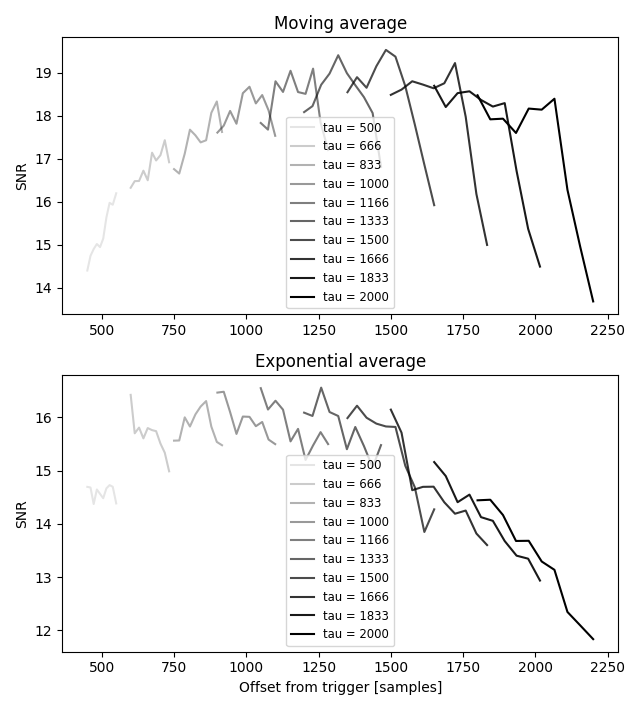
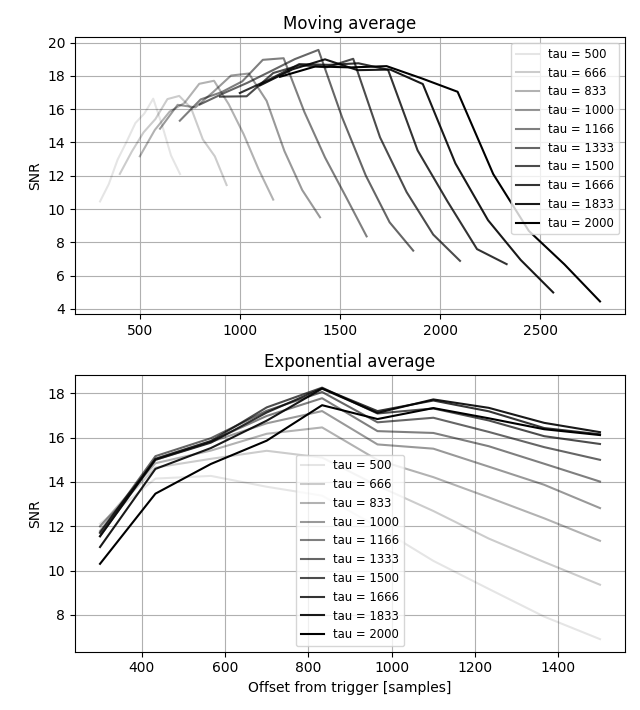
wider delta interval

diff --git a/fingersnr.py b/fingersnr.py
@@ -10,7 +10,7 @@ import integrate
 filename = 'nuvhd_lf_3x_tile57_77K_64V_6VoV_1.wav'
 data = readwav.readwav(filename, mmap=False)
 
-delta_rel = np.linspace(0.9, 1.1, 10)
+delta_rel = np.linspace(0.6, 1.4, 10)
 tau = np.linspace(500, 2000, 10)
 
 delta = (tau.reshape(-1, 1) * delta_rel).reshape(-1)
@@ -18,9 +18,11 @@ tau = np.broadcast_to(tau.reshape(-1, 1), tau.shape + delta_rel.shape).reshape(-
 
 delta = np.array(delta, int)
 tau = np.array(tau, int)
+delta_exp = np.array(np.linspace(300, 1500, 10), int)
+delta_exp = np.broadcast_to(delta_exp.reshape(1, -1), (10, 10)).reshape(-1)
 
 print('computing...')
-start, baseline, vma, vexp = integrate.filter(data, delta, tau, delta, tau)
+start, baseline, vma, vexp = integrate.filter(data, delta, tau, delta_exp, tau)
 
 # Identify events with out-of-trigger signals.
 baseline_zone = data[:, 0, :8900]
@@ -34,6 +36,8 @@ def single_filter_analysis(corr_value, fig1=None, fig2=None):
     psel = np.concatenate([[True], (ph[1:] / ph[:-1]) > 1/5])
     peaks = peaks[psel]
     ph = ph[psel]
+    if len(peaks) <= 1:
+        return 0
 
     bins_center = (bins[1:] + bins[:-1]) / 2
     peaks_loc = bins_center[peaks]
@@ -104,19 +108,19 @@ for i in tqdm.tqdm(range(snr.shape[1])):
         corr_value = (baseline - value)[~ignore]
         snr[j, i] = single_filter_analysis(corr_value)
 
-# def fun(x, useexp):
-#     delta, tau = x
-#     delta = np.array([delta], int)
-#     tau = np.array([tau], int)
-#     start, baseline, vma, vexp = integrate.filter(data, delta, tau, delta, tau)
-#     value = vexp if useexp else vma
-#     corr_value = (baseline - value)[~ignore]
-#     snr = single_filter_analysis(corr_value)
-#     return snr
+def fun(delta, tau, useexp=False):
+    delta = np.array([delta], int)
+    tau = np.array([tau], int)
+    start, baseline, vma, vexp = integrate.filter(data, delta, tau, delta, tau)
+    value = vexp if useexp else vma
+    corr_value = (baseline - value[:, 0])[~ignore]
+    snr = single_filter_analysis(corr_value)
+    return snr
 
 snr = snr.reshape(2, -1, len(delta_rel))
 tau = tau.reshape(-1, len(delta_rel))
 delta = delta.reshape(tau.shape)
+delta_exp = delta_exp.reshape(tau.shape)
 
 fig = fighelp.figwithsize([6.4, 7.1], resetfigcount=True)
 
@@ -130,9 +134,11 @@ for i, ax in enumerate(axs):
     for j in range(snr.shape[1]):
         alpha = (j + 1) / snr.shape[1]
         label = f'tau = {tau[j, 0]}'
-        ax.plot(delta[j], snr[i, j], color='black', alpha=alpha, label=label)
+        d = delta if i == 0 else delta_exp
+        ax.plot(d[j], snr[i, j], color='black', alpha=alpha, label=label)
     ax.set_ylabel('SNR')
     ax.legend(loc='best', fontsize='small')
+    ax.grid()
 
 fighelp.saveaspng(fig)
 
@@ -155,5 +161,7 @@ def fingerplot(tau, delta, kind='ma'):
     fig2.tight_layout()
     fig1.show()
     fig2.show()
+    
+print('call fingerplot(<tau>, <delta>, "ma" or "exp") interactively')
 
 plt.show()
